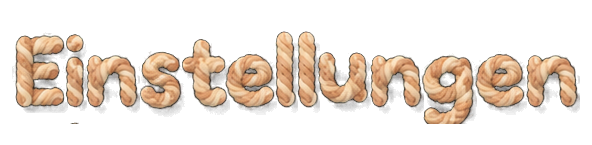
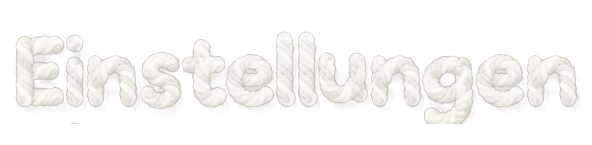
fix(web): Garnschrift C in natürliches Wollweiß überführen

diff --git a/apps/web/scripts/garnschrift-c/test_raster_from_sheet.py b/apps/web/scripts/garnschrift-c/test_raster_from_sheet.py
@@ -86,6 +86,31 @@ class RasterYarnAssets(unittest.TestCase):
             light = raster.render(word, "light", self.source)
             self.assertEqual(dark[16:24], light[16:24])
 
+    def test_wool_white_palette_preserves_fiber_detail_and_contours(self):
+        self.assertEqual(raster.wool_white_color(75), (198, 195, 186))
+        self.assertEqual(raster.wool_white_color(175), (240, 238, 231))
+        self.assertEqual(raster.wool_white_color(225), (252, 250, 245))
+        for ch in ("E", "n", "L", "g"):
+            with self.subTest(ch=ch):
+                dark = raster.glyph(ch, "dark", self.source)
+                light = raster.glyph(ch, "light", self.source)
+                self.assertEqual((dark[0], dark[1], dark[3]),
+                                 (light[0], light[1], light[3]))
+                self.assertEqual(dark[2][3::4], light[2][3::4])
+                pixels = dark[2]
+                self.assertTrue(any(0 < a < 255 for a in pixels[3::4]))
+                opaque = [tuple(pixels[i:i + 3])
+                          for i in range(0, len(pixels), 4)
+                          if pixels[i + 3] >= 200]
+                self.assertGreater(len(set(opaque)), 35)
+                self.assertTrue(all(198 <= r <= 252 and 195 <= g <= 250
+                                    and 186 <= b <= 245 and
+                                    r >= g >= b and r - g <= 3 and g - b <= 9
+                                    for r, g, b in opaque))
+                tones = sorted(sum(rgb) / 3 for rgb in opaque)
+                self.assertGreater(tones[len(tones) * 95 // 100]
+                                   - tones[len(tones) * 5 // 100], 25)
+
     def test_arbitrary_german_word_renders_without_browser_or_external_assets(self):
         for theme in ("dark", "light"):
             png = raster.render("ÄÖÜäöüß Kollektivgüter 2026!", theme, self.source)

diff --git a/apps/web/scripts/garnschrift-c/raster_from_sheet.py b/apps/web/scripts/garnschrift-c/raster_from_sheet.py
@@ -165,6 +165,24 @@ def _byte(value: float) -> int:
     return max(0, min(255, round(value)))
 
 
+# Off-white wool: extracted source luminance retains fiber relief.
+# Anchors are measured source wool luminance P5 / P50 / P95.
+WOOL_SHADOW = (198, 195, 186)     # #C6C3BA
+WOOL_BODY = (240, 238, 231)       # #F0EEE7
+WOOL_HIGHLIGHT = (252, 250, 245)  # #FCFAF5
+
+
+def wool_white_color(luminance: float) -> tuple[int, int, int]:
+    """Map natural wool shading into an off-white material palette."""
+    if luminance <= 175:
+        low, high = WOOL_SHADOW, WOOL_BODY
+        blend = max(0.0, min(1.0, (luminance - 75) / 100))
+    else:
+        low, high = WOOL_BODY, WOOL_HIGHLIGHT
+        blend = max(0.0, min(1.0, (luminance - 175) / 50))
+    return tuple(_byte(a + (b - a) * blend) for a, b in zip(low, high, strict=True))
+
+
 def glyph(
     ch: str, theme: str, image: tuple[int, int, bytes]
 ) -> tuple[int, int, bytearray, int]:
@@ -192,6 +210,9 @@ def glyph(
                 red = _byte((r - (1 - fraction) * 14) / divisor)
                 green = _byte((g - (1 - fraction) * 47) / divisor)
                 blue = _byte((b - (1 - fraction) * 58) / divisor)
+                # Only the extracted yarn RGB changes; alpha and geometry do not.
+                luminance = (30 * red + 60 * green + 10 * blue) / 100
+                red, green, blue = wool_white_color(luminance)
             else:
                 luminance = (30 * r + 60 * g + 10 * b) / 100
                 factor = max(-1, min(1, (luminance - 160) / 80))

diff --git a/apps/web/scripts/garnschrift-c/README.md b/apps/web/scripts/garnschrift-c/README.md
@@ -32,8 +32,14 @@ unabhängig von den Bildern im DOM.
 Python-Standardbibliothek, kontrolliert seinen SHA-256-Wert und seine Dimensionen,
 und verwendet feste, überprüfbare Rechtecke für die einzelnen Originalbuchstaben.
 Die abgetrennten Garnpixel werden aus dem petrolfarbenen Hintergrund freigestellt.
-Für die helle Oberfläche wird eine dunkelteale Garnvariante unter Bewahrung der
-Helligkeitsabstufungen erzeugt.
+Für das dunkle Oberflächenthema wird die gemessene Helligkeit der Originalfasern
+auf eine natürliche Wollweißpalette abgebildet: schattierte Vertiefungen
+(#C6C3BA), Wollgrundfarbe (#F0EEE7) und sanfte Faserreflexe (#FCFAF5).
+Die Original-Luminanzanker (ungefähr 75/175/225) erhalten die Zwirnung;
+**Alpha-Maske, Konturen und optisches Kerning bleiben unverändert.**
+Für die helle Oberfläche bleibt die kontrastreiche dunkelteale Garnvariante
+mit ihren Helligkeitsabstufungen erhalten. Alle vier PNGs werden weiterhin
+deterministisch aus der unveränderten Originalquelle erzeugt.
 
 Die beiden tatsächlich in Commonthing verwendeten Titel sind `Login` und
 `Einstellungen`. Der iPad-Sichttest zeigte: Auch ein pauschaler
